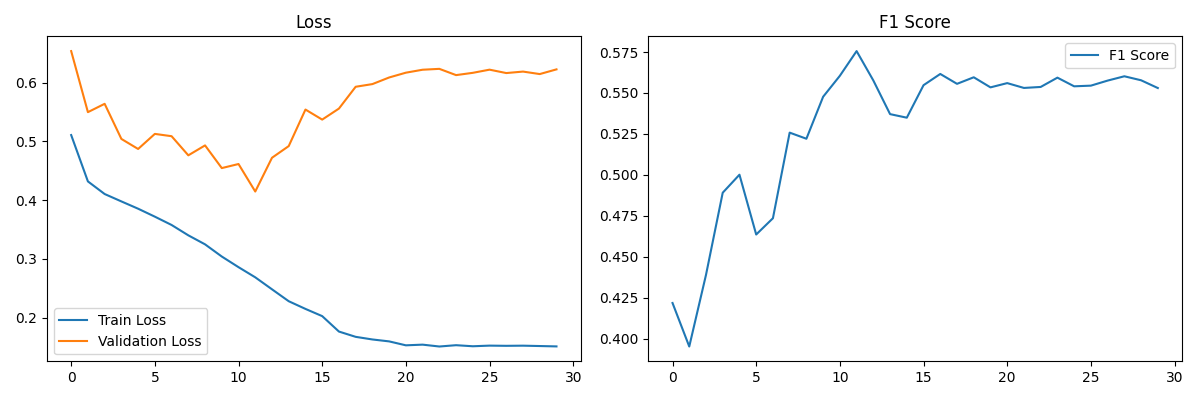
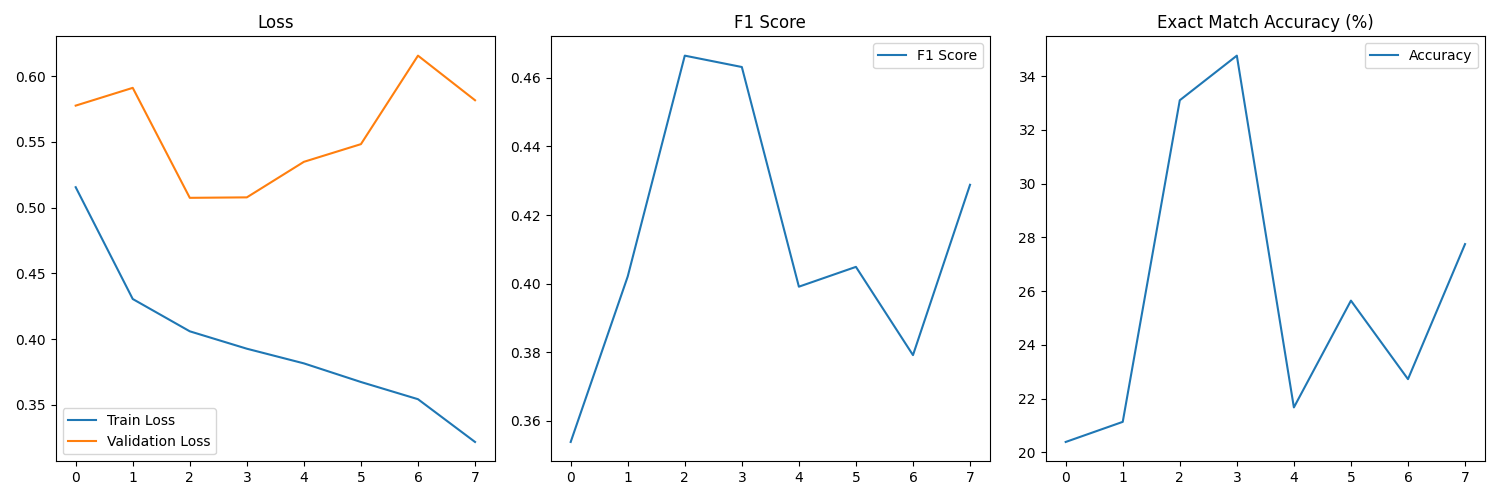
updated with patience and accuracy

diff --git a/on_actual_data.py b/on_actual_data.py
@@ -274,7 +274,13 @@ def train_and_evaluate(
     # Training loop with model saving and metrics calculation
     epochs = 30
     best_loss = float("inf")
-    history = {"train_loss": [], "val_loss": [], "val_f1": []}
+    history = {"train_loss": [], "val_loss": [], "val_f1": [], "val_accuracy": []}
+
+    # Early stopping parameters
+    patience = 5
+    patience_counter = 0
+
+    print("\nStarting training with early stopping (patience=5)...")
 
     for epoch in range(epochs):
         model.train()
@@ -297,6 +303,8 @@ def train_and_evaluate(
         val_loss = 0.0
         all_preds = []
         all_labels = []
+        correct_predictions = 0
+        total_samples = 0
 
         with torch.no_grad():
             for inputs, labels in test_loader:
@@ -310,9 +318,28 @@ def train_and_evaluate(
                 all_preds.append(preds.cpu().numpy())
                 all_labels.append(labels.cpu().numpy())
 
+                # Calculate accuracy (exact matches)
+                batch_correct = torch.all(preds == labels, dim=1).sum().item()
+                correct_predictions += batch_correct
+                total_samples += labels.size(0)
+
+                # Calculate per-class accuracy
+                for i in range(n_classes):
+                    class_preds = preds[:, i]
+                    class_labels = labels[:, i]
+                    class_correct = (class_preds == class_labels).sum().item()
+                    class_total = class_labels.size(0)
+
         # Calculate metrics
         all_preds = np.vstack(all_preds)
         all_labels = np.vstack(all_labels)
+
+        # Calculate exact match accuracy (percentage)
+        accuracy = (correct_predictions / total_samples) * 100
+        history["val_accuracy"].append(accuracy)
+
+        # Calculate hamming accuracy (percentage)
+        hamming_accuracy = np.mean(all_preds == all_labels) * 100
 
         # Calculate F1 score for each class and average
         f1_scores = []
@@ -330,7 +357,8 @@ def train_and_evaluate(
         history["val_f1"].append(avg_f1)
 
         print(
-            f"Epoch {epoch + 1}/{epochs} - Train Loss: {avg_train_loss:.4f}, Val Loss: {avg_val_loss:.4f}, F1: {avg_f1:.4f}"
+            f"Epoch {epoch + 1}/{epochs} - Train Loss: {avg_train_loss:.4f}, Val Loss: {avg_val_loss:.4f}, "
+            f"F1: {avg_f1:.4f}, Exact Match Accuracy: {accuracy:.2f}%, Hamming Accuracy: {hamming_accuracy:.2f}%"
         )
 
         # Step the scheduler
@@ -339,25 +367,44 @@ def train_and_evaluate(
         # Save model if it has the best validation loss so far
         if avg_val_loss < best_loss:
             best_loss = avg_val_loss
+            patience_counter = 0  # Reset patience counter
             print(f"Saving best model with validation loss: {best_loss:.4f}")
             torch.save(model.state_dict(), model_path)
+        else:
+            patience_counter += 1
+            print(
+                f"Validation loss did not improve. Patience: {patience_counter}/{patience}"
+            )
+
+            # Check if early stopping criteria is met
+            if patience_counter >= patience:
+                print(f"\nEarly stopping triggered after {epoch + 1} epochs!")
+                break
 
     # Plot training history
-    plt.figure(figsize=(12, 4))
-    plt.subplot(1, 2, 1)
+    plt.figure(figsize=(15, 5))
+    plt.subplot(1, 3, 1)
     plt.plot(history["train_loss"], label="Train Loss")
     plt.plot(history["val_loss"], label="Validation Loss")
     plt.legend()
     plt.title("Loss")
 
-    plt.subplot(1, 2, 2)
+    plt.subplot(1, 3, 2)
     plt.plot(history["val_f1"], label="F1 Score")
     plt.legend()
     plt.title("F1 Score")
 
+    plt.subplot(1, 3, 3)
+    plt.plot(history["val_accuracy"], label="Accuracy")
+    plt.legend()
+    plt.title("Exact Match Accuracy (%)")
+
     plt.tight_layout()
     plt.savefig("training_history.png")
     plt.close()
+
+    print("\nTraining completed!")
+    print(f"Best validation loss: {best_loss:.4f}")
 
     return model, diagnostic_classes, class_to_index, index_to_class
 
